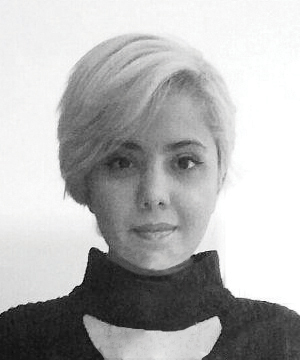
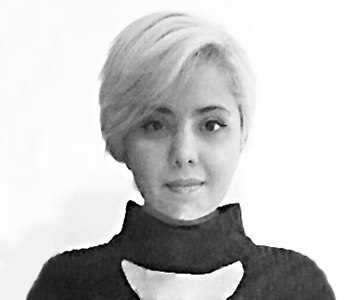
Updated: code cleanup and styling; fixes test cases

diff --git a/index.html b/index.html
@@ -7,12 +7,15 @@
 
 		<!-- For Resposive Device -->
 		<meta name="viewport" content="width=device-width, initial-scale=1.0">
+		<meta name="robots" content="index,follow">
 
-		<title>Fawnoos || Identity and Access Management Consulting</title>
+		<meta name="description" content="Fawnoos || open-source identity and access management software consulting services">
+		<meta name="keywords" content="fawnoos, fawnous, apache, opensource, open-source, oss, software, identity, access management, consulting, consultant, cas, apereo, shibboleth, saml, oauth, openid connect, pac4j, login, syncope, single signon, sso, authentication, authorization, java, developer, github" />
+
+		<title>Fawnoos || Open-Source Identity and Access Management Consulting Services</title>
 
 		<!-- Favicon -->
 		<link rel="icon" type="image/png" sizes="56x56" href="images/fav-icon/icon.png">
-
 
 		<!-- Main style sheet -->
 		<link rel="stylesheet" type="text/css" href="css/style.css">
@@ -42,7 +45,7 @@
 			-->
 			<header class="theme-main-header">
 				<div class="container">
-					<a href="index.html" class="logo float-left tran4s"><img src="images/logo/logo.png" alt="Logo"></a>
+					<a href="index.html" class="logo float-left tran4s"><img src="images/logo/logo.png" alt="Fawnoos || Open-Source Identity and Access Management Consulting Services"></a>
 					
 					<!-- ========================= Theme Feature Page Menu ======================= -->
 					<nav class="navbar float-right theme-main-menu one-page-menu">
@@ -118,14 +121,14 @@
 						<blockquote><i>
 								Fawnoos is a term of Greek origin meaning 'light' or 'lantern' and is a symbol for hope and guidance in Persian classical literature.</i>
 						</blockquote>
-						<img id="fawnoosprojects" src="images/project/projects.png">
+						<img id="fawnoosprojects" src="images/project/projects.png" alt="Fawnoos || Open-Source Identity and Access Management Consulting Services">
 					</div>
 					<div class="row" style="margin-top:-20px;">
 
 						<div class="col-lg-3 col-md-3 col-sm-6">
 							<div class="single-about-content">
 								<div class="icon round-border tran3s">
-									<img class="projecticon" src="images/project/cas.png">
+									<img class="projecticon" src="images/project/cas.png" alt="Fawnoos || Open-Source Identity and Access Management Consulting Services">
 								</div>
 								<h5><a href="#" class="tran3s">Apereo CAS</a></h5>
 								<p style="text-align: justify"><a href="https://github.com/apereo/cas">Apereo CAS</a> is an open-source multilingual solution for access management.</p>
@@ -136,7 +139,7 @@
 						<div class="col-lg-3 col-md-3 col-sm-6">
 							<div class="single-about-content">
 								<div class="icon round-border tran3s">
-									<img class="projecticon" src="images/project/pac4j.png">
+									<img class="projecticon" src="images/project/pac4j.png" alt="Fawnoos || Open-Source Identity and Access Management Consulting Services">
 								</div>
 								<h5><a href="#" class="tran3s">Pac4j</a></h5>
 								<p style="text-align: justify"><a href="https://github.com/pac4j/pac4j">Pac4j</a> is Java-based security library for authentication and profile management, available for a variety of frameworks and platforms.</p>
@@ -147,7 +150,7 @@
 						<div class="col-lg-3 col-md-3 col-sm-6">
 							<div class="single-about-content">
 								<div class="icon round-border tran3s">
-									<img class="projecticon" src="images/project/shibboleth.png">
+									<img class="projecticon" src="images/project/shibboleth.png" alt="Fawnoos || Open-Source Identity and Access Management Consulting Services">
 								</div>
 								<h5><a href="#" class="tran3s">Shibboleth</a></h5>
 								<p style="text-align: justify">Shibboleth Identity Provider provides federated Web SSO capabilities with support for authentication protocols such as SAML2, CAS, etc.</p>
@@ -164,7 +167,7 @@
 								<p style="text-align: justify">Consulting services for identity and access management, training and general development activities.</p>
 								
 								<p><br></p>
-								<p style="text-align: justify">Primarily focused on open-source, Java ecosystem and JVM languages such as Groovy, Kotlin and technologies such as Spring Framework, CI/CD pipelines, Docker, etc.</p>
+								<p style="text-align: justify">Primarily focused on open-source, Java ecosystem and languages and technologies such as Spring Framework, CI/CD pipelines, Docker, etc.</p>
 							</div>
 						</div>
 
@@ -461,7 +464,7 @@
 						<div class="float-left">
 							<div class="single-team-member">
 								<div class="img">
-									<img src="images/team/1.jpg" alt="Image">
+									<img class="teammember" src="images/team/1.jpg" alt="Fawnoos || Open-Source Identity and Access Management Consulting Services">
 									<div class="opacity tran4s">
 										<h4>Misagh Moayyed</h4>
 										<span>Software Engineer</span>
@@ -505,7 +508,7 @@
 						<div class="float-left">
 							<div class="single-team-member">
 								<div class="img">
-									<img src="images/team/2.jpg" alt="Image">
+									<img class="teammember" src="images/team/2.jpg" alt="Fawnoos || Open-Source Identity and Access Management Consulting Services">
 									<div class="opacity tran4s">
 										<h4>Hannaneh Misaghi</h4>
 										<span>Graphics Designer</span>
@@ -788,12 +791,12 @@
 			<!-- <div id="partner-section">
 				<div class="container">
 					<div id="partner_logo" class="owl-carousel owl-theme">
-						<div class="item"><img src="images/logo/p1.png" alt="logo"></div>
-						<div class="item"><img src="images/logo/p2.png" alt="logo"></div>
-						<div class="item"><img src="images/logo/p3.png" alt="logo"></div>
-						<div class="item"><img src="images/logo/p4.png" alt="logo"></div>
-						<div class="item"><img src="images/logo/p5.png" alt="logo"></div>
-						<div class="item"><img src="images/logo/p2.png" alt="logo"></div>
+						<div class="item"><img src="images/logo/p1.png" alt="Fawnoos || Open-Source Identity and Access Management Consulting Services"></div>
+						<div class="item"><img src="images/logo/p2.png" alt="Fawnoos || Open-Source Identity and Access Management Consulting Services"></div>
+						<div class="item"><img src="images/logo/p3.png" alt="Fawnoos || Open-Source Identity and Access Management Consulting Services"></div>
+						<div class="item"><img src="images/logo/p4.png" alt="Fawnoos || Open-Source Identity and Access Management Consulting Services"></div>
+						<div class="item"><img src="images/logo/p5.png" alt="Fawnoos || Open-Source Identity and Access Management Consulting Services"></div>
+						<div class="item"><img src="images/logo/p2.png" alt="Fawnoos || Open-Source Identity and Access Management Consulting Services"></div>
 					</div> 
 				</div>
 			</div>  -->
@@ -911,7 +914,7 @@
 			-->
 			<footer>
 				<div class="container">
-					<a href="index.html" class="logo"><img src="images/logo/logo.png" alt="Logo"></a>
+					<a href="index.html" class="logo"><img src="images/logo/logo.png" title="Fawnoos || Open-Source Identity and Access Management Consulting Services"></a>
 
 					<ul>
 						<!-- <li><a href="#" class="tran3s round-border"><i class="fa fa-facebook" aria-hidden="true"></i></a></li> -->

diff --git a/css/style.css b/css/style.css
@@ -1631,7 +1631,7 @@ footer p {
   background-position: 50%;
   height: 100%;
   position: relative; 
-  height: 765px;
+  height: 815px;
   margin-bottom: 20px;
 }
 
@@ -1650,7 +1650,7 @@ footer p {
 }
 
 .hero--center {
-  padding-top: 190px;
+  padding-top: 200px;
 }
 
 .logo {
@@ -1677,5 +1677,10 @@ footer p {
 }
 
 #about-us-header, #team-section-header, #contact-section-header {
-  padding-bottom: 47px;
+  padding-bottom: 32px;
+}
+
+.teammember {
+  width: max-content;
+  height: 300px;
 }

diff --git a/js/fawnoos.js b/js/fawnoos.js
@@ -8,6 +8,12 @@ var totalNumberOfImages = 8
 var imageNumber=Math.floor(Math.random() * totalNumberOfImages) + 1;
 $('#main-banner-slider').css("background-image", "url(images/home/slide-" + imageNumber + ".jpg)");
 
+switch (imageNumber) {
+    case 7:
+        $('.hero').css('height', '1100px');
+        break;
+}
+
 /*********************************************************
 The logic below is used to apply shade and filters animations
 as the background picture loads. Do not modify!
